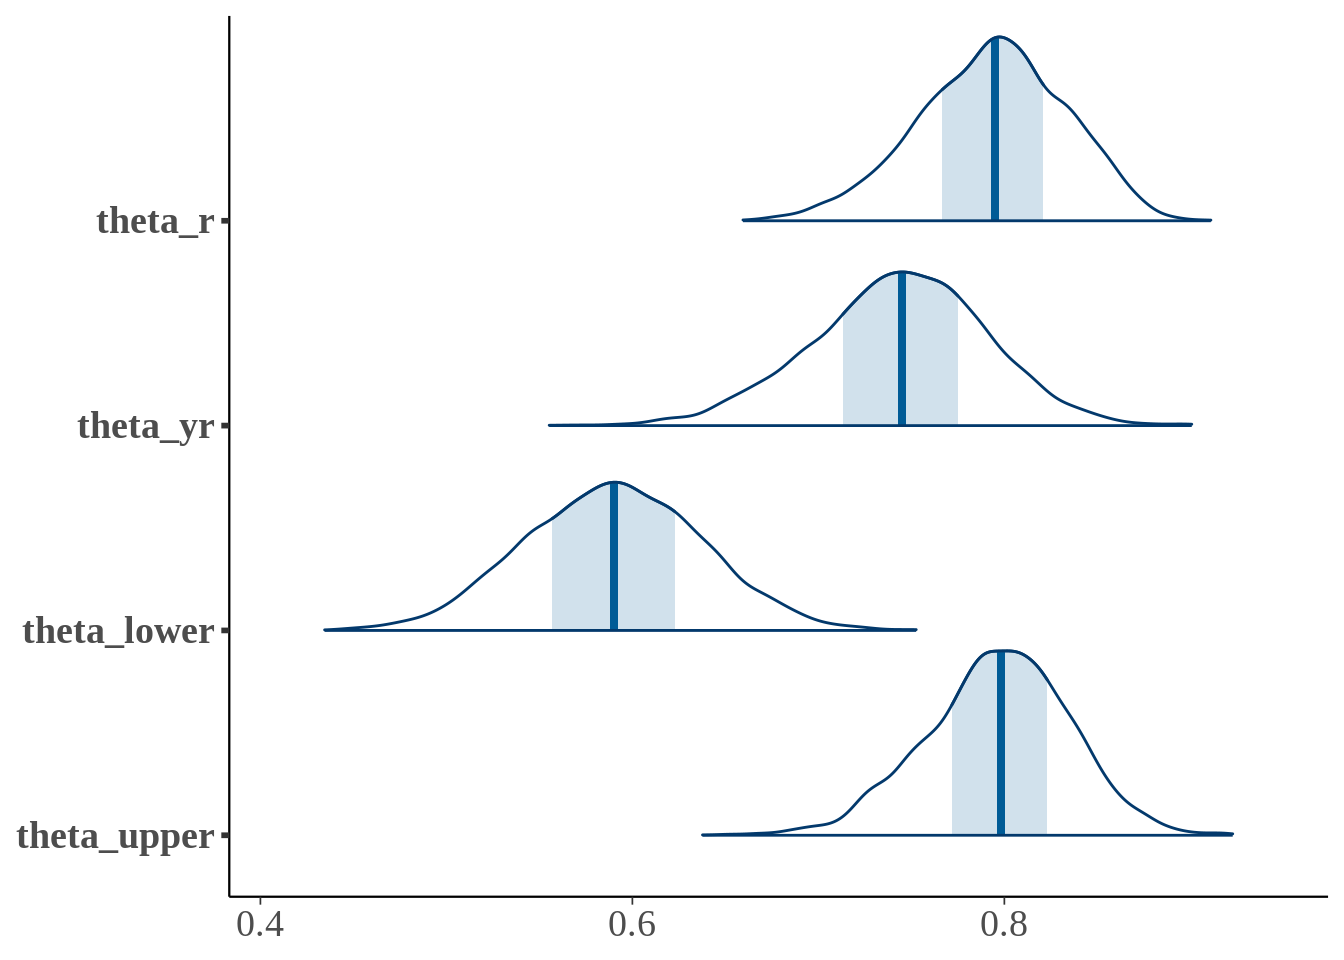
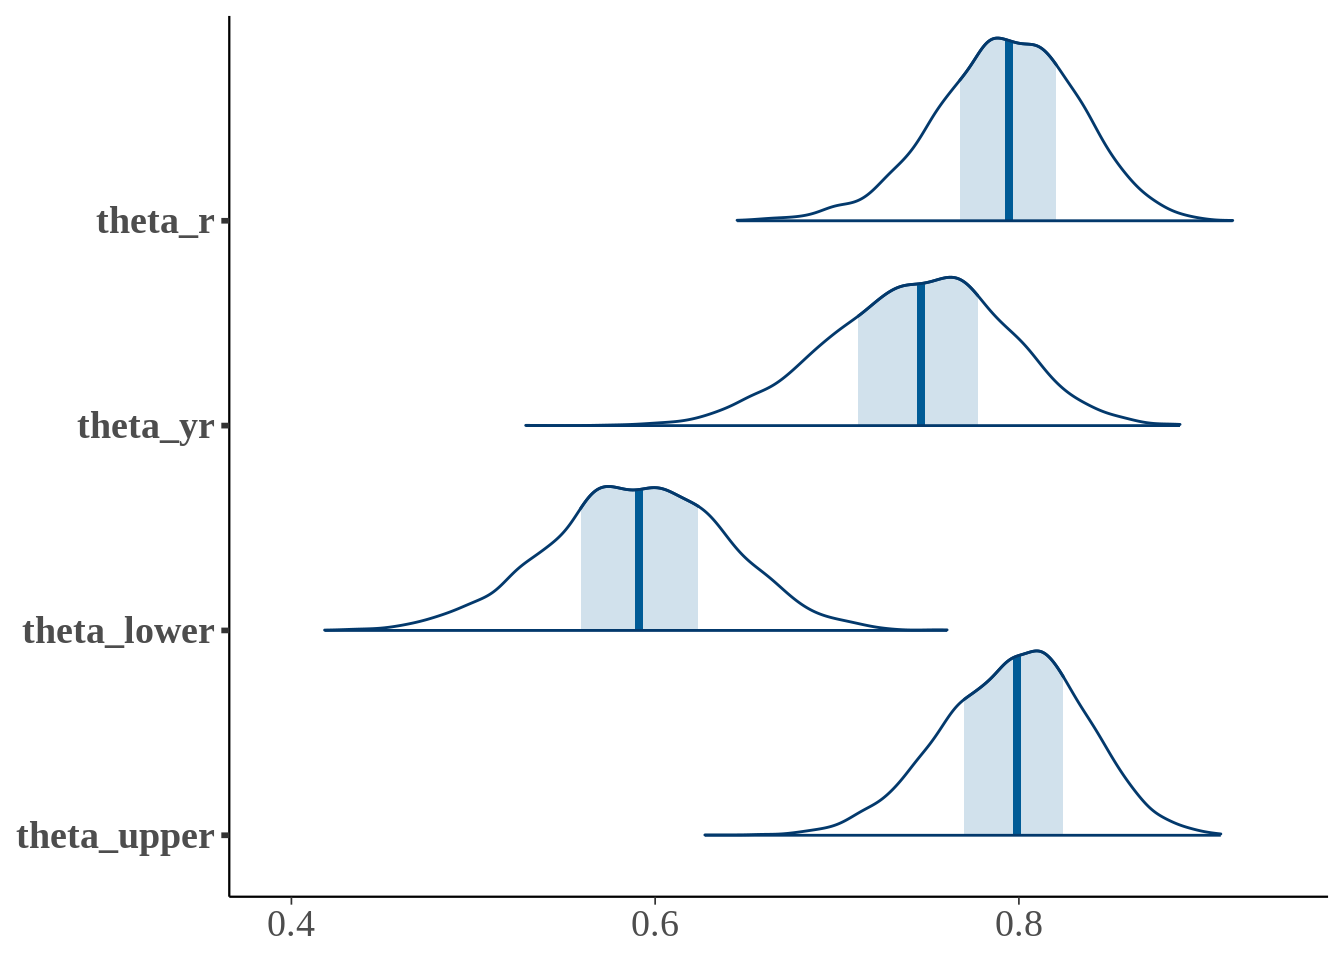
add intervals plot

diff --git a/content/post/survey-nonresponse-stan.html b/content/post/survey-nonresponse-stan.html
@@ -72,8 +72,15 @@ generated quantities {
 <p>Since we didn’t specify a prior distribution for <span class="math inline">\(\theta_r\)</span> and <span class="math inline">\(\theta_{yr}\)</span>, Stan automatically chose a uniform distribution.</p>
 <pre class="r"><code>library(rstan)
 library(bayesplot)
-library(ggplot2)</code></pre>
-<pre class="r"><code>survey_data &lt;- list(N = 100, r = 80, y = 60)
+library(ggplot2)
+library(data.table)</code></pre>
+<pre class="r"><code>N &lt;- 100
+r &lt;- 80
+y &lt;- 60
+theta_yr_point &lt;- y/r
+theta_lower_point &lt;- y/N
+theta_upper_point &lt;- y/N + 1 - r/N
+survey_data &lt;- list(N = N, r = r, y = y)
 fit &lt;- sampling(nonresponse, survey_data)</code></pre>
 <pre class="r"><code>fit</code></pre>
 <pre><code>## Inference for Stan model: 3af63e94b6c9efbd0049b265a8a1db73.
@@ -81,11 +88,11 @@ fit &lt;- sampling(nonresponse, survey_data)</code></pre>
 ## post-warmup draws per chain=1000, total post-warmup draws=4000.
 ## 
 ##               mean se_mean   sd    2.5%    25%    50%    75%  97.5% n_eff
-## theta_r       0.79    0.00 0.04    0.71   0.77   0.80   0.82   0.87  3179
-## theta_yr      0.74    0.00 0.05    0.65   0.71   0.74   0.77   0.83  3237
-## theta_lower   0.59    0.00 0.05    0.50   0.56   0.59   0.62   0.68  3461
-## theta_upper   0.80    0.00 0.04    0.72   0.77   0.80   0.82   0.87  3094
-## lp__        -99.51    0.02 1.00 -102.16 -99.88 -99.21 -98.79 -98.53  1790
+## theta_r       0.79    0.00 0.04    0.71   0.77   0.79   0.82   0.87  3085
+## theta_yr      0.74    0.00 0.05    0.65   0.71   0.75   0.78   0.83  2777
+## theta_lower   0.59    0.00 0.05    0.49   0.56   0.59   0.62   0.68  2768
+## theta_upper   0.80    0.00 0.04    0.72   0.77   0.80   0.82   0.87  2820
+## lp__        -99.51    0.02 1.00 -102.23 -99.87 -99.21 -98.79 -98.54  1705
 ##             Rhat
 ## theta_r        1
 ## theta_yr       1
@@ -93,7 +100,7 @@ fit &lt;- sampling(nonresponse, survey_data)</code></pre>
 ## theta_upper    1
 ## lp__           1
 ## 
-## Samples were drawn using NUTS(diag_e) at Fri May 22 12:44:10 2020.
+## Samples were drawn using NUTS(diag_e) at Fri May 22 14:11:27 2020.
 ## For each parameter, n_eff is a crude measure of effective sample size,
 ## and Rhat is the potential scale reduction factor on split chains (at 
 ## convergence, Rhat=1).</code></pre>
@@ -101,4 +108,30 @@ fit &lt;- sampling(nonresponse, survey_data)</code></pre>
 <p><img src="/post/survey-nonresponse-stan_files/figure-html/unnamed-chunk-4-1.png" width="672" /></p>
 <pre class="r"><code>mcmc_scatter(fit, pars = c(&#39;theta_lower&#39;, &#39;theta_upper&#39;), alpha = 0.1) + theme(text = element_text(size = 18))</code></pre>
 <p><img src="/post/survey-nonresponse-stan_files/figure-html/unnamed-chunk-4-2.png" width="672" /></p>
+<p>Another way to show our posterior is to plot 50 draws from the posterior of our estimated range for <span class="math inline">\(\theta\)</span>. Plus, we’ll show our “point estimate” for the interval in red.</p>
+<pre class="r"><code>num_iter &lt;- 50
+DT &lt;- as.data.table(rstan::extract(fit, c(&#39;theta_lower&#39;, &#39;theta_upper&#39;)))
+DT &lt;- DT[1:num_iter][, point := FALSE]
+pointDT &lt;- data.table(
+    theta_lower = theta_lower_point,
+    theta_upper = theta_upper_point,
+    point = TRUE
+)
+DT &lt;- rbindlist(list(DT, pointDT))
+DT &lt;- DT[order(-(theta_lower + theta_upper) / 2)]
+DT[, iter := 1:nrow(DT)]
+
+ggplot(DT, aes(xmin = theta_lower, xmax = theta_upper, y = iter, color = point)) +
+    geom_errorbarh() +
+    theme_default() +
+    scale_color_manual(values = c(&#39;black&#39;, &#39;red&#39;)) +
+    guides(color = FALSE) +
+    theme(
+        text = element_text(size = 18),
+        axis.line.y = element_blank(),
+        axis.ticks.y = element_blank(),
+        axis.text.y = element_blank(),
+        axis.title.y = element_blank()
+    )</code></pre>
+<p><img src="/post/survey-nonresponse-stan_files/figure-html/unnamed-chunk-5-1.png" width="672" /></p>
 </div>
